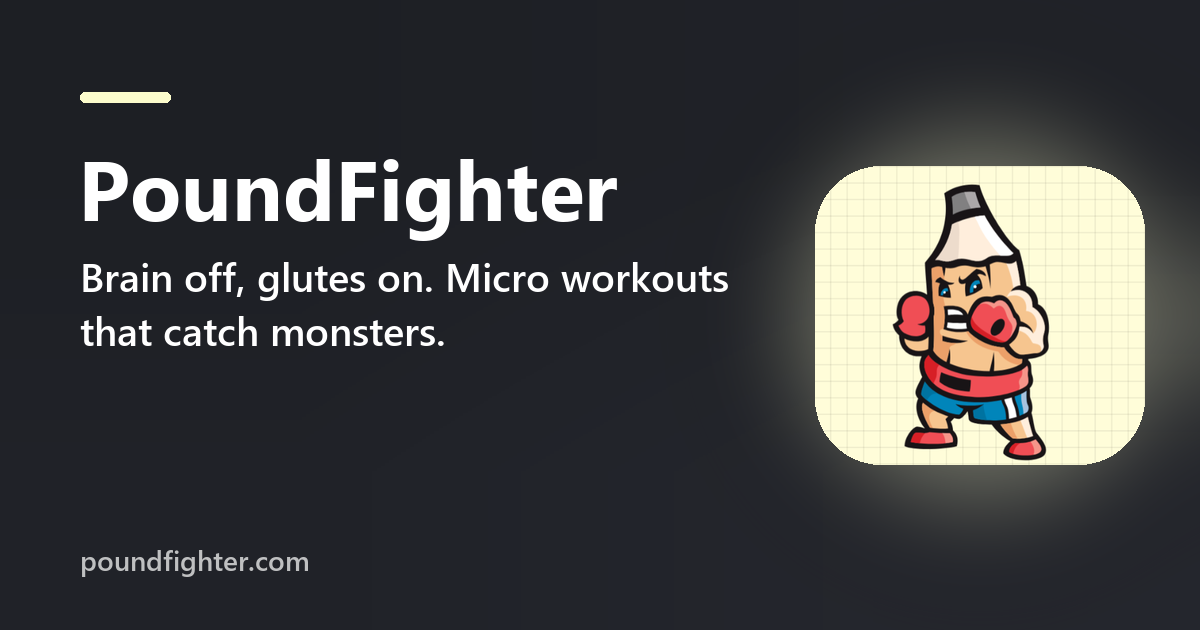
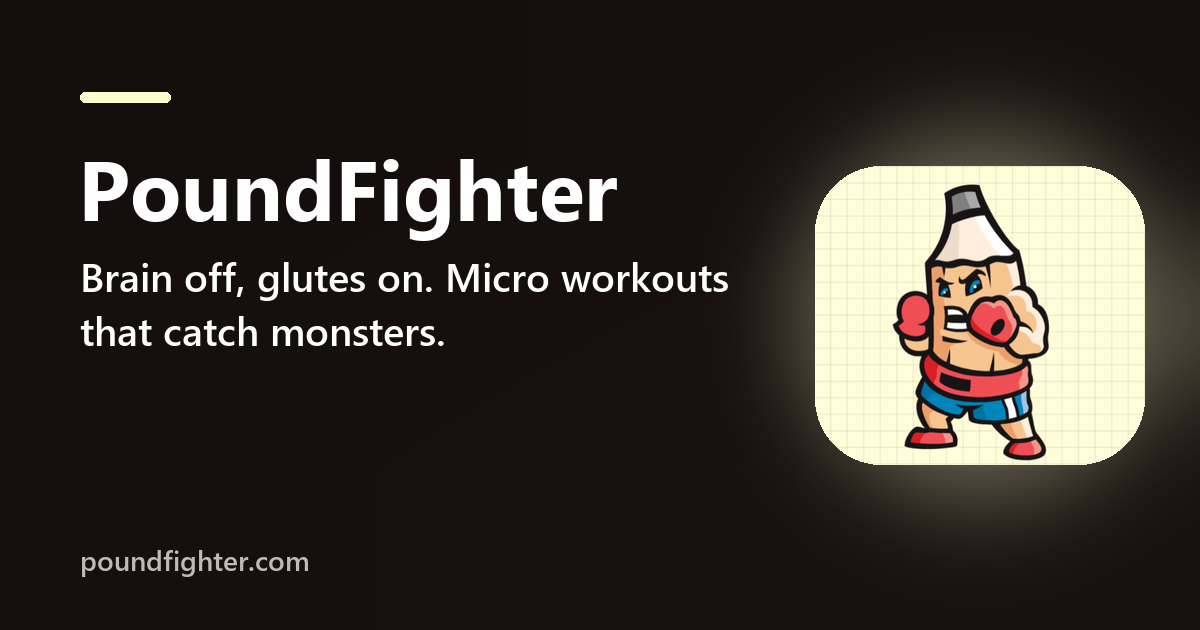
SEO: search and share tags, robots.txt, sitemap.xml, llms.txt, /about

diff --git a/server_code/seo_routes.py b/server_code/seo_routes.py
@@ -58,13 +58,13 @@ SEO = {
   ]
  ],
  "site": "https://poundfighter.com",
- "updated": "2026-11-03",
- "icon": "icon-512.png",
+ "updated": "2026-11-09",
+ "icon": "poundfighter.png",
  "colors": {
-  "bg": "#1d1f24",
+  "bg": "#140e0c",
   "ink": "#ffffff",
-  "brand": "#2f6fed",
-  "on": "#ffffff"
+  "brand": "#fcfccc",
+  "on": "#16181d"
  }
 }
 
@@ -139,9 +139,17 @@ def llms_txt(o):
 
 def _ld(o):
     s = SEO
-    app = {"@type": s.get("type", "WebApplication"), "@id": o + "/#app", "name": s["name"], "url": o + "/",
+    app = {"@type": s.get("type", "Service"), "@id": o + "/#app", "name": s["name"], "url": o + "/",
            "description": s["description"], "image": o + "/_/theme/og-image.png", "inLanguage": s.get("lang", "en"),
            "publisher": {"@id": "https://arkvital.com/#org"}, "keywords": ", ".join(s.get("keywords", []))}
+    if app["@type"] == "Service":
+        # An online service people use in the browser: no app-store listing, so no price/rating fields Google demands of apps
+        app["serviceType"] = s.get("service_type", s.get("tagline", s["title"]))
+        app["provider"] = {"@id": "https://arkvital.com/#org"}
+        app["areaServed"] = "Worldwide"
+        app["availableChannel"] = {"@type": "ServiceChannel", "serviceUrl": o + "/", "name": "Web browser"}
+        del app["inLanguage"], app["publisher"], app["keywords"]
+        app["availableLanguage"] = s.get("lang", "en")
     if app["@type"] in ("WebApplication", "VideoGame"):
         app["applicationCategory"] = s.get("category", "WebApplication")
         app["operatingSystem"] = "Any (web browser)"
